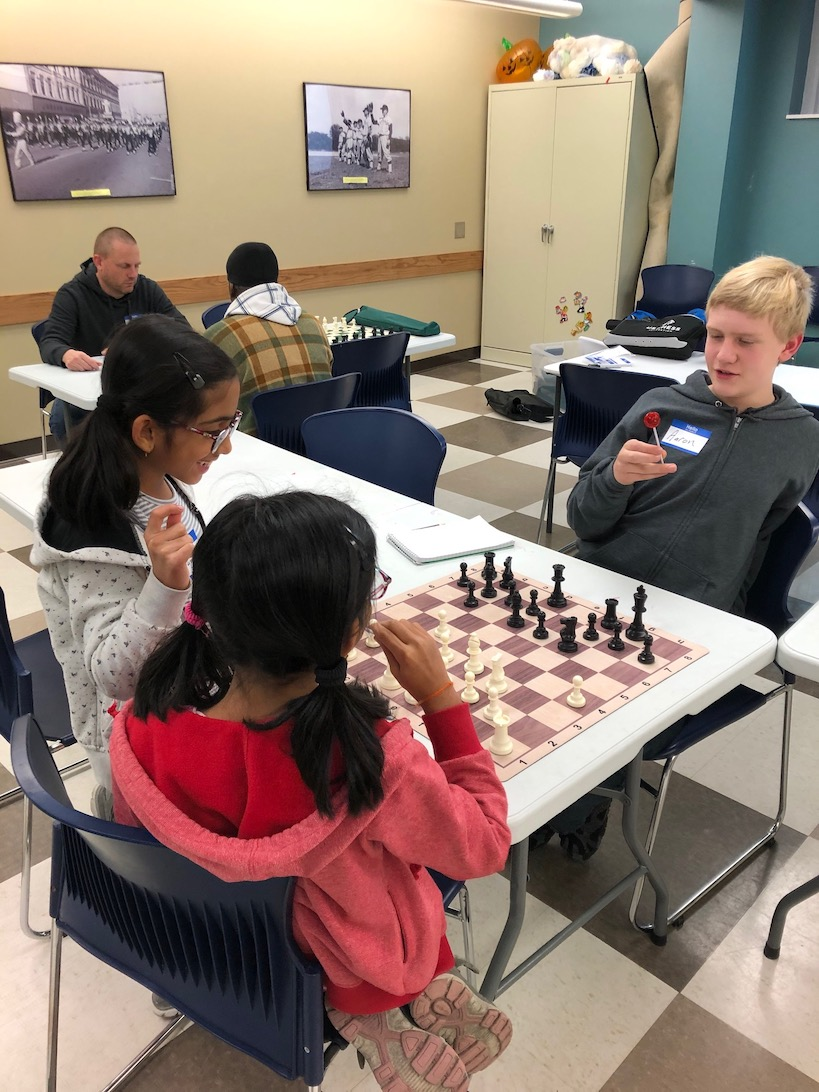
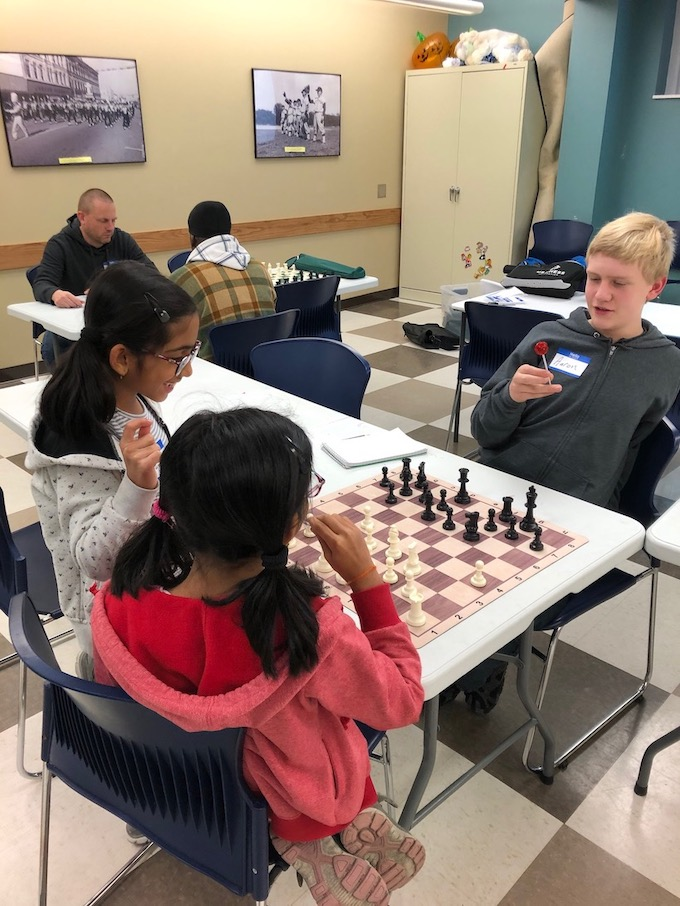
altered the event image gallery

Changed region(s): [[0.1235, 0.989, 0.1544, 1.0]]

diff --git a/_projects/2019-10-24-first-meeting.md b/_projects/2019-10-24-first-meeting.md
@@ -12,8 +12,8 @@ Yesterday there were three boards active and we had several other interested peo
 
 <div class="gallery" data-columns="2">
     <img src="/images/events/meeting1-1.png">
+    <img src="/images/events/meeting1-3.png">
     <img src="/images/events/meeting1-2.png">
-    <img src="/images/events/meeting1-3.jpg">
 </div>
 
 Due to scheduling conflicts at the library, we will not be able to meet for the next two weeks. Watch here and on our [Chess.com](https://www.chess.com/club/big-rapids-chess) club page for more news. Hope to see even more people at our next meeting.
